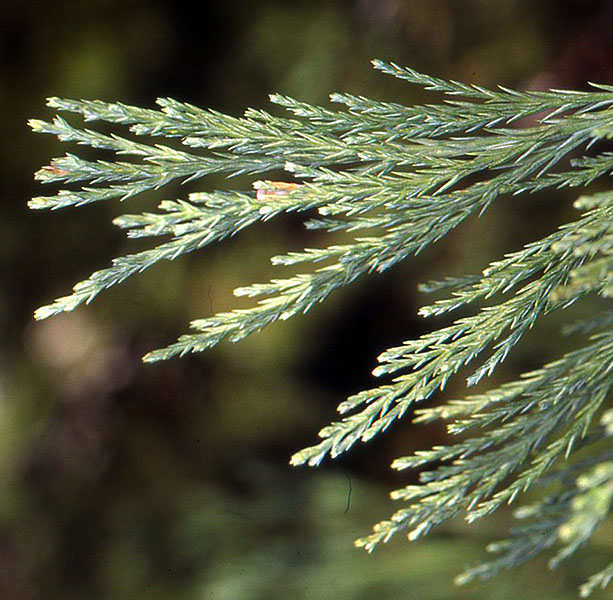
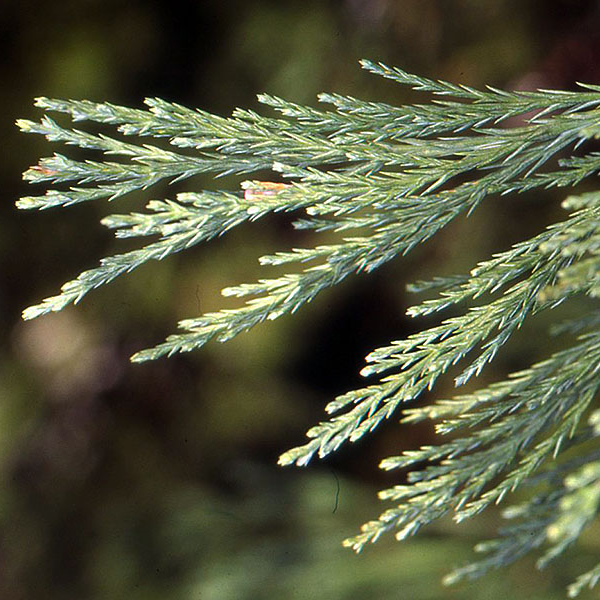
add more images

diff --git a/src/images.ts b/src/images.ts
@@ -5,6 +5,12 @@ import single from "url:./img/single_needles.png"
 import tenNeedles from "url:./img/ten_needles.png";
 import sequoia from "url:./img/sequoia.png";
 import softNeedles from "url:./img/soft_needles.png";
+import softScales from "url:./img/soft_scales.png";
+import incenseCedarCone from "url:./img/incense_cedar_cone.png";
+import rosebudCones from "url:./img/rosebud_cones.png";
+import trueCedar from "url:./img/true_cedar.png";
+import alaskaCedarCone from "url:./img/alaska_cedar_cone.png";
+import juniperCones from "url:./img/juniper_cones.png";
 
 export const imageKey = {
     "needles": needles,
@@ -14,4 +20,10 @@ export const imageKey = {
     "ten_needles": tenNeedles,
     "sequoia": sequoia,
     "soft_needles": softNeedles,
+    "soft_scales": softScales,
+    "incense_cedar_cone": incenseCedarCone,
+    "rosebud_cones": rosebudCones,
+    "true_cedar": trueCedar,
+    "alaska_cedar_cone": alaskaCedarCone,
+    "juniper_cones": juniperCones
 }

diff --git a/src/App.css b/src/App.css
@@ -72,6 +72,6 @@ html, body {
     }
     html, body {
         background-size: cover;
-        background-position: left;
+        background-position: left bottom;
     }
 }
